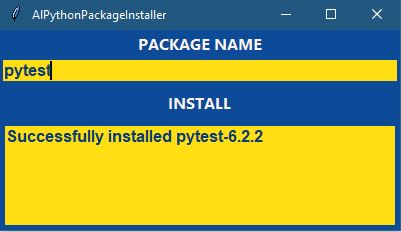
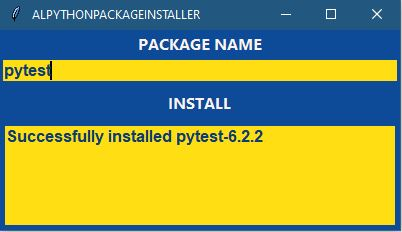
AlPythonPackageInstaller

diff --git a/AlPythonPackageInstaller.py b/AlPythonPackageInstaller.py
@@ -6,7 +6,7 @@ import pyttsx3
 class AlPythonPackageInstaller():
     
     def __init__(self):
-        root = Tk(className = " AlPythonPackageInstaller ")
+        root = Tk(className = " ALPYTHONPACKAGEINSTALLER ")
         root.geometry("400x200+1500+815")
         root.config(bg="#0d4b98")
         color = '#0d4b98'
